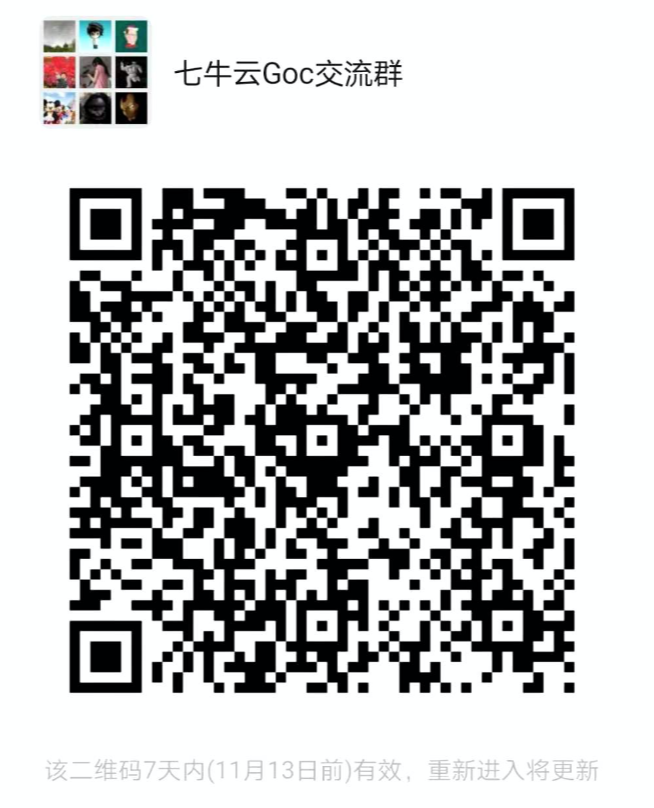
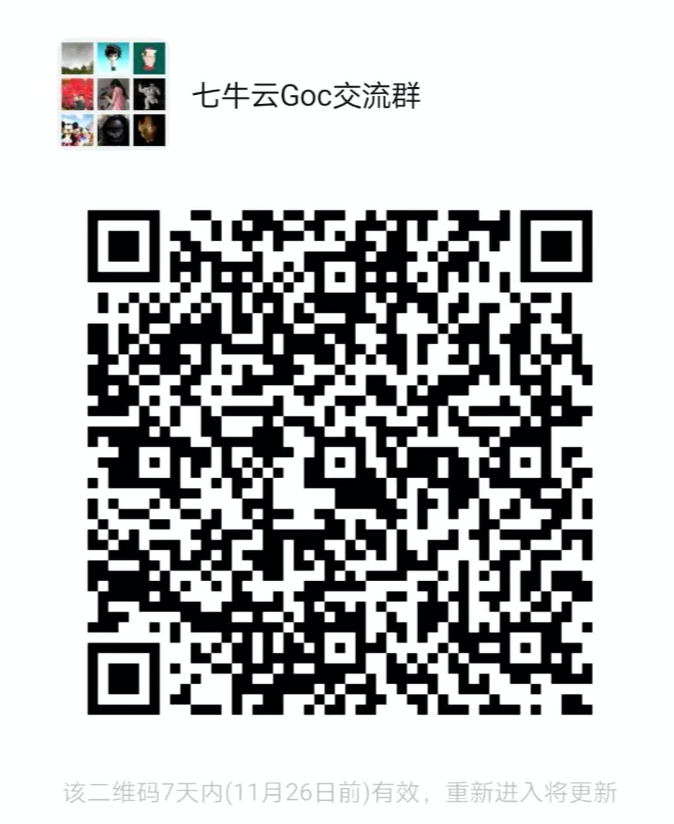
doc: update wechat image and blog

diff --git a/README.md b/README.md
@@ -69,11 +69,6 @@ We provide a vscode extension - [Goc Coverage](https://marketplace.visualstudio.
     2. After service restarted and test finished, collect coverage again with `goc profile -o b.cov`
     3. Merge two coverage profiles together: `goc merge a.cov b.cov -o merge.cov`
 
-## Blogs
-
-- [Go语言系统测试覆盖率收集利器 goc](https://mp.weixin.qq.com/s/DzXEXwepaouSuD2dPVloOg)
-
-
 ## RoadMap
 - [x] Support code coverage collection for system testing.
 - [x] Support code coverage counters clear for the services under test at runtime.
